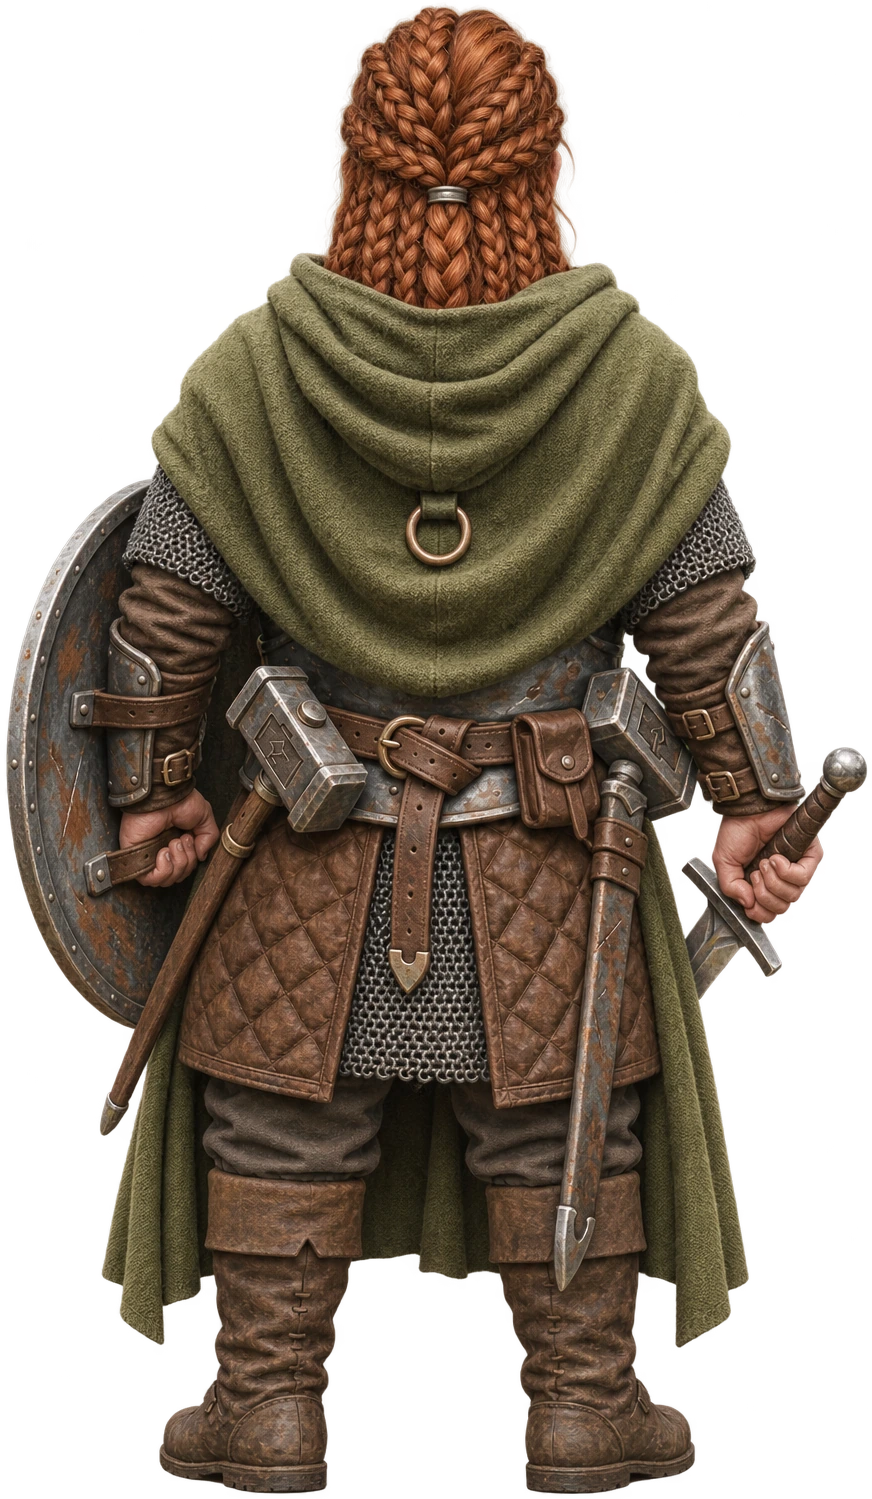
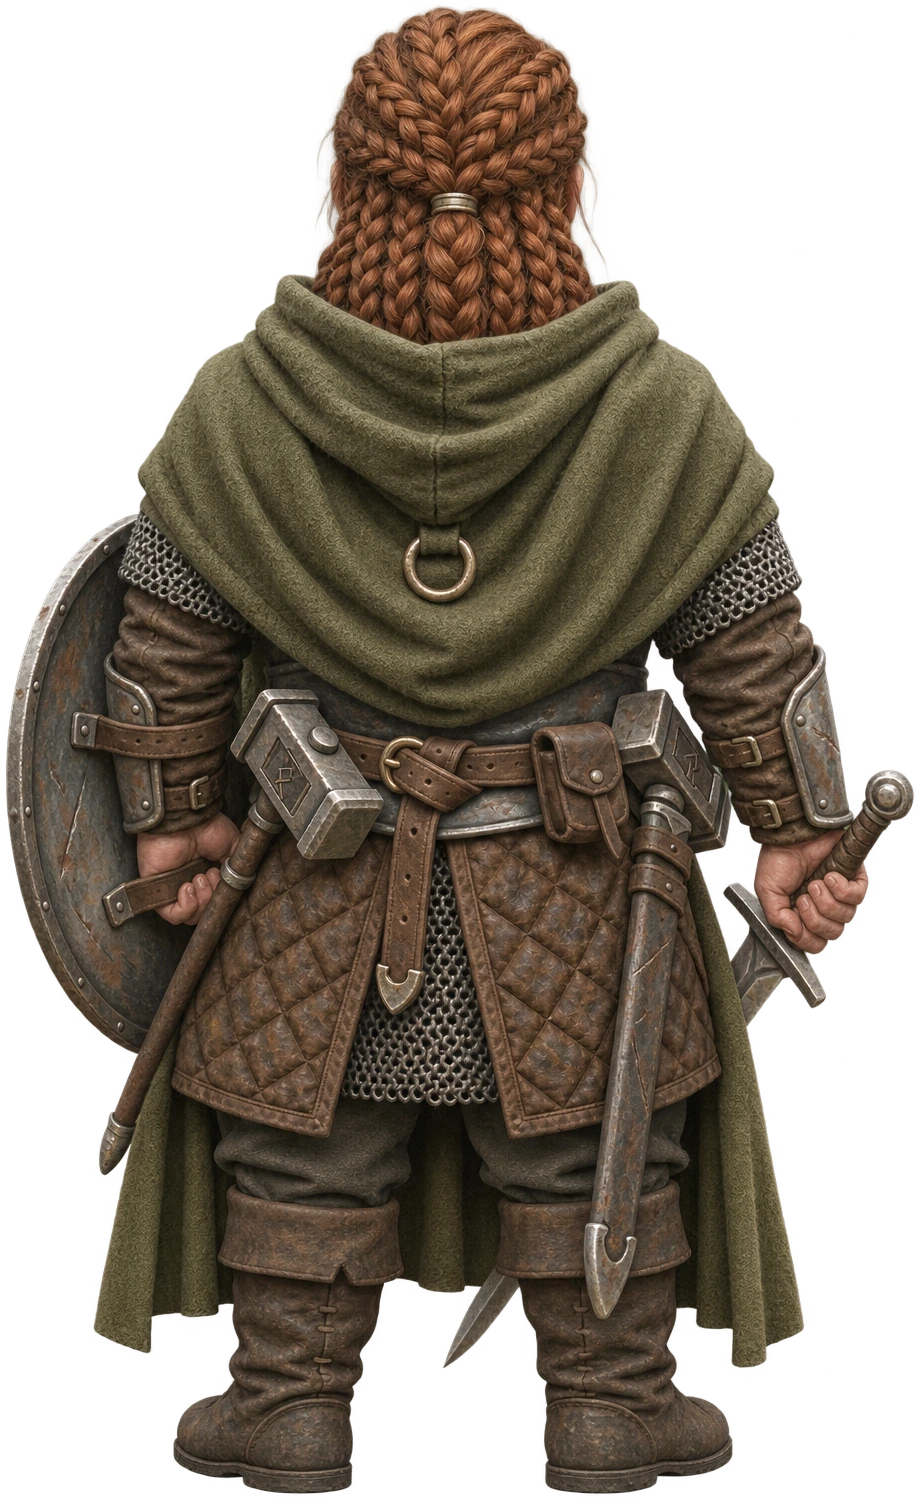
Painted sets: the set's shade falls on figures again, cards settle on one face, bubbles read larger, and Branka is repainted
Only figures cast sun shadows in a painted set, so the set's own shade never
reached them and they read as flat. The built set is now rendered from the sun
about the current point and figures take its shade. The sun's shadow map covers
that ground alone, so a figure's shadow is no longer a few texels.

A card seen from the side no longer sits half way through its dissolve.

diff --git a/packages/stage/src/render/painted.ts b/packages/stage/src/render/painted.ts
@@ -69,6 +69,31 @@ const slotSky = (i: number) => /* glsl */ `{
  float a = inside * (pow(uPaintLens${i}.y, 4.0) * smoothstep(0.0, .06, e) + 1e-6);
  paintSum += a * tx; paintW += a; paintIn = max(paintIn, inside); }`
 
+// The set's shadow on a figure. Only figures are in the sun's own shadow map, so that their shadows alone darken the
+// paint. What the set would cast on them, an awning's shade or a tower's, comes from a second map: the built set alone,
+// seen from the sun, over the ground about the current point.
+const SHADE_SIZE = 2048
+const SHADE_RADIUS = 40
+// How much of the sun the set's shade takes from a figure. Not all: under an awning a painting's own figures would
+// still catch light off the ground and the walls, and at full strength the sergeant at his table is a silhouette.
+const SHADE_STRENGTH = 0.65
+const SHADE_GLSL = /* glsl */ `
+uniform sampler2D uSetShadeMap; uniform mat4 uSetShadeView; uniform float uSetShadeOn;
+float setShade(vec3 viewPosition){
+ vec3 p = (uSetShadeView * vec4(viewPosition, 1.0)).xyz * .5 + .5;
+ float e = min(min(p.x, 1.0 - p.x), min(p.y, 1.0 - p.y));
+ if (uSetShadeOn < .5 || e < 0.0 || p.z > 1.0) return 1.0;
+ float lit = 0.0;
+ for (int k = 0; k < 4; k++) {
+  vec2 o = vec2(k == 0 || k == 2 ? -.75 : .75, k < 2 ? -.75 : .75) / ${SHADE_SIZE}.0;
+  lit += step(p.z - .0006, textureLod(uSetShadeMap, p.xy + o, 0.0).x); }
+ return mix(1.0, lit * .25, uSetShadeOn * smoothstep(0.0, .05, e)); }`
+// The sun's light on a figure, dimmed by that shade, where three works out each directional light.
+const SHADED_LIGHTS = `float setShadeNow = setShade(-vViewPosition);\n${THREE.ShaderChunk.lights_fragment_begin.replace(
+  "getDirectionalLightInfo( directionalLight, directLight );",
+  "getDirectionalLightInfo( directionalLight, directLight );\n\t\tdirectLight.color *= setShadeNow;"
+)}`
+
 const slots = (each: (i: number) => string) => Array.from({ length: N }, (_, i) => each(i)).join("\n")
 
 export class Painted {
@@ -84,12 +109,25 @@ export class Painted {
   private patched = new Set<THREE.Material>()
   private cloths: THREE.Mesh[] = []
   private plate: THREE.Mesh[] = []
+  // What stands among the plate's meshes without taking paint: flames, glass, mist.
+  private aside: THREE.Mesh[] = []
+  private scene: THREE.Scene | null = null
+  private hidden: THREE.Object3D[] = []
+  private shade = { uSetShadeMap: { value: null as THREE.Texture | null }, uSetShadeView: { value: new THREE.Matrix4() }, uSetShadeOn: { value: 0 } }
+  private shadeTarget: THREE.WebGLRenderTarget | null = null
+  private shadeCamera = new THREE.OrthographicCamera(-SHADE_RADIUS, SHADE_RADIUS, SHADE_RADIUS, -SHADE_RADIUS, 1, 700)
+  private shadeMatrix = new THREE.Matrix4()
+  private shadeDepth = new THREE.MeshDepthMaterial({ side: THREE.DoubleSide })
+  // The ground the sun's shadows are worked out over: about the current point, more of it ahead than behind.
+  readonly shadeBox = { center: new THREE.Vector3(), radius: SHADE_RADIUS }
 
   constructor(
     private renderer: THREE.WebGLRenderer,
     private spec: Spec,
     private shared: SharedUniforms,
-    skyRadius: number
+    skyRadius: number,
+    // Toward the sun.
+    private sun: THREE.Vector3
   ) {
     this.points = tripodPoints(spec)
     this.blank = new THREE.DataTexture(new Uint8Array([0, 0, 0, 255]), 1, 1)
@@ -141,6 +179,7 @@ ${slots(slotSky)}
           if (!this.patched.has(m)) this.patchMaterial(m as Patched)
         }
         if (takes) this.plate.push(o)
+        else this.aside.push(o)
       }
       for (const c of o.children) visit(c)
     }
@@ -230,6 +269,8 @@ ${slots(slotSurface)}
   // What each painting's camera saw of the built set. `hidden` is everything that was not in its plate: cast, crowd,
   // effects, birds, the sky. Plates are made with motion off, which holds the wind at time 0, so depth is taken there.
   bake(scene: THREE.Scene, hidden: THREE.Object3D[]) {
+    this.scene = scene
+    this.hidden = hidden
     const r = this.renderer
     const hide = [...hidden, this.dome]
     const was = hide.map((h) => h.visible)
@@ -322,6 +363,73 @@ void main(){ float a = lin(texture2D(tA, vUv).x); float b = a; float cov = 0.0;
       if (p) (this.uniforms[`uPaintVP${i}`].value as THREE.Matrix4).copy(p.viewProjection)
       ;(this.uniforms[`uPaintLens${i}`].value as THREE.Vector3).set(p ? 1 : 0, p?.lens ?? 0, p?.clear ? 1 : 0)
     }
+    this.renderShade(point)
+  }
+
+  // Figures take the set's shade (see SHADE_GLSL): every lit material under `roots`, the cast's cards and the crowd's.
+  shadeFigures(roots: THREE.Object3D[]) {
+    const done = new Set<THREE.Material>()
+    for (const root of roots)
+      root.traverse((o) => {
+        if (!(o instanceof THREE.Mesh)) return
+        for (const m of (Array.isArray(o.material) ? o.material : [o.material]) as Patched[]) {
+          if (!(m instanceof THREE.MeshStandardMaterial) || done.has(m)) continue
+          done.add(m)
+          const before = m.onBeforeCompile
+          const key = m.customProgramCacheKey.bind(m)
+          m.onBeforeCompile = (s, renderer) => {
+            before.call(m, s, renderer)
+            Object.assign(s.uniforms, this.shade)
+            s.fragmentShader = s.fragmentShader.replace("#include <common>", `#include <common>\n${SHADE_GLSL}`).replace("#include <lights_fragment_begin>", SHADED_LIGHTS)
+          }
+          m.customProgramCacheKey = () => `${key()}|shade`
+          m.needsUpdate = true
+        }
+      })
+  }
+
+  // The set's shade about a point: the built set alone, seen from the sun.
+  private renderShade(point: TripodPoint) {
+    if (!this.scene) return
+    const r = this.renderer
+    const ahead = new THREE.Vector3(0, 0, -1).applyQuaternion(point.frames[0].quaternion).setY(0)
+    if (ahead.lengthSq() > 1e-6) ahead.normalize()
+    const center = this.shadeBox.center
+      .copy(point.position)
+      .setY(0)
+      .addScaledVector(ahead, SHADE_RADIUS * 0.6)
+    const cam = this.shadeCamera
+    cam.position.copy(center).addScaledVector(this.sun, 300)
+    cam.lookAt(center)
+    cam.updateMatrixWorld(true)
+    this.shadeMatrix.multiplyMatrices(cam.projectionMatrix, cam.matrixWorldInverse)
+    this.shadeTarget ??= new THREE.WebGLRenderTarget(SHADE_SIZE, SHADE_SIZE, { depthTexture: new THREE.DepthTexture(SHADE_SIZE, SHADE_SIZE) })
+    const hide = [...this.hidden, this.dome, ...this.aside]
+    const was = hide.map((h) => h.visible)
+    for (const h of hide) h.visible = false
+    const prev = r.getRenderTarget()
+    const auto = r.shadowMap.autoUpdate
+    r.shadowMap.autoUpdate = false
+    this.scene.overrideMaterial = this.shadeDepth
+    try {
+      r.setRenderTarget(this.shadeTarget)
+      r.clear()
+      r.render(this.scene, cam)
+    } finally {
+      this.scene.overrideMaterial = null
+      r.shadowMap.autoUpdate = auto
+      r.setRenderTarget(prev)
+      hide.forEach((h, i) => {
+        h.visible = was[i]
+      })
+    }
+    this.shade.uSetShadeMap.value = this.shadeTarget.depthTexture
+    this.shade.uSetShadeOn.value = SHADE_STRENGTH
+  }
+
+  // Once a frame: the way from the camera's own space into the shade map.
+  frame(camera: THREE.Camera) {
+    this.shade.uSetShadeView.value.multiplyMatrices(this.shadeMatrix, camera.matrixWorld)
   }
 
   dispose() {
@@ -329,6 +437,9 @@ void main(){ float a = lin(texture2D(tA, vUv).x); float b = a; float cov = 0.0;
     this.dome.geometry.dispose()
     ;(this.dome.material as THREE.Material).dispose()
     this.blank.dispose()
+    this.shadeTarget?.depthTexture?.dispose()
+    this.shadeTarget?.dispose()
+    this.shadeDepth.dispose()
     for (const list of this.paintings.values())
       for (const p of list) {
         p.map.dispose()

diff --git a/packages/stage/src/figures/standees.ts b/packages/stage/src/figures/standees.ts
@@ -34,10 +34,6 @@ const GAIN = 0.6
 const RATE = 4.5
 const D = THREE.MathUtils.degToRad
 const wrap = (a: number) => Math.atan2(Math.sin(a), Math.cos(a))
-const smoothstep = (a: number, b: number, x: number) => {
-  const t = THREE.MathUtils.clamp((x - a) / (b - a), 0, 1)
-  return t * t * (3 - 2 * t)
-}
 
 // Exact squared distance transform (Felzenszwalb & Huttenlocher), used for the alpha "bulge".
 function edt(inside: Uint8Array, w: number, h: number) {
@@ -198,6 +194,8 @@ interface Standee {
   yaw: number | null
   loaded: boolean
   back: number
+  // The face the card has settled on: 0 its front, 1 its back, null until it is first seen.
+  side: 0 | 1 | null
   // 0 standing, 1 lying on the ground.
   fall: number
   map?: THREE.Texture
@@ -261,6 +259,7 @@ export class Standees {
     if (s && instant) {
       s.fall = down ? 1 : 0
       s.yaw = null
+      s.side = null
     }
   }
   hit(id: string, color: string, strength = 1) {
@@ -304,7 +303,7 @@ export class Standees {
     contact.name = `contact:${cast.id}`
     grp.add(contact)
     this.group.add(grp)
-    const s: Standee = { cast, grp, mesh, mat, depth, bu, yaw: null, loaded: false, back: 0, fall: cast.down ? 1 : 0, aspect: 0.4, aspectB: 0.4, contact }
+    const s: Standee = { cast, grp, mesh, mat, depth, bu, yaw: null, loaded: false, back: 0, side: null, fall: cast.down ? 1 : 0, aspect: 0.4, aspectB: 0.4, contact }
     if (cast.down) this.down.add(cast.id)
     this.items.set(cast.id, s)
   }
@@ -345,10 +344,9 @@ export class Standees {
     return [...this.items.values()].map((s) => ({ src: s.mesh, map: () => (s.loaded ? (s.map ?? null) : null), mapB: () => s.mapB ?? null, mix: () => s.back }))
   }
   // Yaw toward the camera, but only part of the way and never more than 60 degrees from where the figure is facing; damped
-  // so the card swings rather than snaps. With a back view the card shows its front below 80 degrees off its facing and its
-  // back above 100 (leaning toward the camera from the opposite side), and in between swings from the front lean to the
-  // back lean (70 to 110) while the art dissolves, so it is face-on to the camera at 90 instead of popping. Without a back
-  // view the card turns about to show its front once the camera is behind the figure.
+  // so the card swings rather than snaps. With a back view the card shows its front or its back, leaning toward the
+  // camera from that side, and dissolves from one to the other as the camera passes its edge (see `side` below). Without a
+  // back view the card turns about to show its front once the camera is behind the figure.
   update(dt: number, camera: THREE.Camera) {
     const k = 1 - Math.exp(-dt * RATE)
     for (const s of this.items.values()) {
@@ -363,8 +361,15 @@ export class Standees {
         const sg = off < 0 ? -1 : 1
         const front = THREE.MathUtils.clamp(off * GAIN, -LEAN, LEAN)
         const back = sg * Math.PI + THREE.MathUtils.clamp(wrap(off - sg * Math.PI) * GAIN, -LEAN, LEAN)
-        target = c.ry + THREE.MathUtils.lerp(front, back, smoothstep(D(70), D(110), a))
-        s.back = smoothstep(D(80), D(100), a)
+        // Which face shows is settled, not blended by the angle: past 100 degrees off its facing the card turns its
+        // back, and it comes round again under 80. Between the two it keeps the face it had. A camera that stands to
+        // one side of someone, as a painted set's tripod can for a whole scene, sees one clean picture and never a
+        // card held half way through its dissolve. The change itself takes a quarter of a second.
+        if (s.side === null) s.side = a > D(90) ? 1 : 0
+        else if (a > D(100)) s.side = 1
+        else if (a < D(80)) s.side = 0
+        target = c.ry + (s.side ? back : front)
+        s.back = s.yaw === null ? s.side : s.back + THREE.MathUtils.clamp(s.side - s.back, -dt * 4, dt * 4)
       } else {
         const flip = a > 2.1
         const rest = c.ry + (flip ? Math.PI : 0)
@@ -425,7 +430,10 @@ export class Standees {
     return out.set(s.cast.x, s.cast.height * 1.04, s.cast.z)
   }
   reset() {
-    for (const s of this.items.values()) s.yaw = null
+    for (const s of this.items.values()) {
+      s.yaw = null
+      s.side = null
+    }
   }
   dispose() {
     for (const s of this.items.values()) {

diff --git a/packages/stage/src/stage.ts b/packages/stage/src/stage.ts
@@ -271,7 +271,7 @@ export class Stage {
     this.sky.renderOrder = -1
     this.sky.frustumCulled = false
     this.scene.add(this.sky)
-    if (set.painted) this.painted = new Painted(renderer, set.painted, this.shared, (this.sky.geometry as THREE.SphereGeometry).parameters.radius)
+    if (set.painted) this.painted = new Painted(renderer, set.painted, this.shared, (this.sky.geometry as THREE.SphereGeometry).parameters.radius, V(...A.sun.direction).normalize())
     const pmrem = new THREE.PMREMGenerator(renderer)
     const envScene = new THREE.Scene()
     const envSky = new THREE.Mesh(new THREE.SphereGeometry(100, 32, 16), skyMaterial(this.shared, skyColors, { ...A.sky, glow }))
@@ -376,6 +376,7 @@ export class Stage {
 
     // A painted set's camera is a tripod, with its own controls once the paintings are up (see load).
     this.painted?.patch(this.plate)
+    this.painted?.shadeFigures([this.standees.group, this.crowd.group])
     if (!this.painted) this.orbit()
 
     this.resizeObserver = new ResizeObserver(() => this.resize())
@@ -698,6 +699,7 @@ export class Stage {
       this.cut = null
       this.tripod = { point: view.point, aim: view.target.clone(), want: { target: view.wanted.clone(), fov: view.asked } }
       this.painted?.setPoint(view.point)
+      this.fitSun()
       this.camera.position.copy(view.point.position)
       this.camera.lookAt(view.target)
       this.camera.fov = view.fov
@@ -724,6 +726,24 @@ export class Stage {
     this.canvas.style.transition = "opacity 170ms ease"
     this.canvas.style.opacity = "0"
     this.cut = { arrive, timer: setTimeout(arrive, 190) }
+  }
+  // The sun's shadow map covers the ground about the current point and no more: figures' shadows are the only ones in
+  // it, and over the whole set a figure is a few texels wide.
+  private fitSun() {
+    const box = this.painted?.shadeBox
+    if (!box) return
+    const A = this.set.atmosphere
+    this.sun.target.position.copy(box.center)
+    this.sun.target.updateMatrixWorld()
+    this.sun.position
+      .set(...A.sun.direction)
+      .normalize()
+      .multiplyScalar(A.sun.distance)
+      .add(box.center)
+    const c = this.sun.shadow.camera
+    c.left = c.bottom = -box.radius
+    c.right = c.top = box.radius
+    c.updateProjectionMatrix()
   }
   // The player turns the camera: a drag of the canvas's height turns it by one lens. It stops at the paint's edge.
   private turnTripod(dx: number, dy: number) {
@@ -1070,6 +1090,8 @@ export class Stage {
       const off = this.motion ? sway(V().subVectors(aim, point.position), this.camera.fov, this.set.painted?.sway ?? 0, this.shared.time.value) : V()
       this.camera.position.copy(point.position).add(off)
       this.camera.lookAt(aim)
+      this.camera.updateMatrixWorld()
+      this.painted?.frame(this.camera)
     } else {
       this.controls?.update()
       this.constrain()

diff --git a/lab/stage-art/cards.ts b/lab/stage-art/cards.ts
@@ -28,7 +28,7 @@ const FIXTURES = "public/stage/fixtures/welcome-to-kordavos"
 const OUT = `${PUB}/cards`
 const GREEN = "#00ff00"
 
-const REAL = `Render it as a real person photographed on location for a film: real skin with pores and stubble, real hair, forged and worn metal, woven wool and linen, oiled and scuffed leather, real stitching and wear. Natural proportions. Soft overcast daylight from the upper left, gentle and even, with no rim light and no hard shadow.
+const REAL = `Render it as a real person photographed on location for a film: real skin with pores and stubble, real hair, forged and worn metal, woven wool and linen, oiled and scuffed leather, real stitching and wear. Soft overcast daylight from the upper left, gentle and even, with no rim light and no hard shadow.
 
 Full body, head to toe, nothing cropped, about 6% margin on all sides, feet flat near the bottom of the frame, eye-level view without perspective distortion. No outline, no halo, no cast shadow and no ground shadow.
 
@@ -36,7 +36,9 @@ Background: SOLID UNIFORM PURE GREEN (#00FF00) everywhere, edge to edge. No scen
 
 const FRONT = `The attached image is a painted game character on a green screen. Make a photograph of the SAME person, in the SAME pose and stance, seen from the same angle, at the same scale and position in the frame.
 
-Keep the face, the age, the hair and beard, the build and height, and every piece of the outfit and gear: its shapes, colours, emblems, layers, and what each hand holds. Keep the silhouette. Only the finish changes, from painting to photograph.
+Keep the face: the same features, the same age and lines, the same scars and the same expression. Keep the hair and beard. Keep every piece of the outfit and gear: its shapes, colours, emblems, layers, and what each hand holds.
+
+Keep the body's proportions exactly as painted: the size of the head against the body, the length of the legs and arms, the width of the shoulders and hips. A stocky dwarf stays stocky with a large head and short legs, a halfling stays small, a half-orc stays heavy. Do not make anyone taller, slimmer, younger or more like an ordinary human. Keep the silhouette. Only the finish changes, from painting to photograph.
 
 ${REAL}`
 

diff --git a/components/stage/stage-dialogue.tsx b/components/stage/stage-dialogue.tsx
@@ -10,7 +10,7 @@ export type Anchor = () => { x: number; y: number; visible: boolean; distance: n
 // A bubble shows only while its speaker reads as a person on screen (a wide shot hides it rather than shrinking it to
 // unreadable), and scales a little with them, never below a readable size.
 const SPEAKER_MIN_PX = 70
-const bubbleScale = (speakerPx: number) => Math.min(1, 0.85 + (speakerPx - SPEAKER_MIN_PX) / 400)
+const bubbleScale = (speakerPx: number) => Math.min(1, 0.92 + (speakerPx - SPEAKER_MIN_PX) / 600)
 // The band at the top of the screen that holds the turn order and the name under it. A bubble with no room above its
 // speaker below that band sits beside their head instead, so it never runs under the portraits.
 const SAFE_TOP = { wide: 150, compact: 96 }
@@ -58,10 +58,10 @@ function BubbleView({ bubble, compact }: { bubble: Bubble; compact: boolean }) {
     <div
       ref={ref}
       className={cn(
-        "absolute top-0 left-0 origin-bottom rounded-[10px] px-3 pt-2 pb-[9px] text-center font-serif leading-[1.4] text-[#2a1a10] italic opacity-0 shadow-[0_6px_18px_#0005] transition-opacity duration-200",
+        "absolute top-0 left-0 origin-bottom rounded-[10px] px-3.5 pt-2.5 pb-[11px] text-center font-serif leading-[1.4] text-[#2a1a10] italic opacity-0 shadow-[0_6px_18px_#0005] transition-opacity duration-200",
         "after:absolute after:bottom-[-7px] after:left-1/2 after:-ml-[7px] after:border-[7px] after:border-b-0 after:border-transparent data-[side=1]:after:hidden",
         bubble.named ? "border border-stage-brass bg-[#fbf1dc] after:border-t-[#fbf1dc]" : "bg-stage-parchment/95 after:border-t-[#f3e6c8f2]",
-        compact ? "max-w-[190px] text-[11px]" : cn("max-w-[240px]", bubble.named ? "text-[14px]" : "text-[13px]")
+        compact ? "max-w-[240px] text-[14px]" : cn("max-w-[330px]", bubble.named ? "text-[18px]" : "text-[17px]")
       )}
     >
       {bubble.text}

diff --git a/lab/stage-art/README.md b/lab/stage-art/README.md
@@ -154,6 +154,14 @@ The gate has eleven points and fourteen paintings: `gate` (with a cloth-free twi
 
 Sway: owner, 2026-11-10, "the drift on the far away shots is great but on closeups it moves too fast". The sway now shrinks with the subject's distance and the lens, so the foreground slides at most about 1% of the frame's height (`SWAY_ON_SCREEN` in `tripod.ts`). Measured live: 16 cm at the gate as before, 2.3 cm on Garlan's close view where it was 6, 2.4 cm on a hero from the party point where it was 12.
 
+Owner review of the live gate, 2026-11-10: Branka's art looked off, the characters did not look as 3D as in the lab, and bubble text was too small.
+
+- Branka: the card prompt said "natural proportions", which made a dwarf taller and slimmer with a younger face. It now says to keep the body's proportions and the face's age, lines and scars. Branka was painted again. The other small folk were painted with the old wording and looked right on review.
+- Flat figures, cause one: in a painted set only figures cast sun shadows, so the set's shade never fell on them. The lab shots the owner liked had it. `render/painted.ts` now renders the built set from the sun over 80 m about the current point, and figures take 65% of that shade. At full strength Garlan under his awning was a silhouette.
+- Cause two: the sun's shadow map covered the whole set, 300 m, so a figure's own shadow was a few texels. It now covers the same 80 m.
+- Cause three: a card seen from the side sat half way through the dissolve between its front and back, as a speckled ghost. A tripod can stand to one side of someone for a whole scene. `figures/standees.ts` now settles on one face, with 80 and 100 degrees as the two thresholds, and dissolves in a quarter of a second when it changes. This applies to every set.
+- Bubbles: 17 and 18 px, from 13 and 14, in a 330 px box, and 14 px in the compact layout, from 11.
+
 Known limits:
 
 - A view lies inside one painting. It cannot straddle two.
